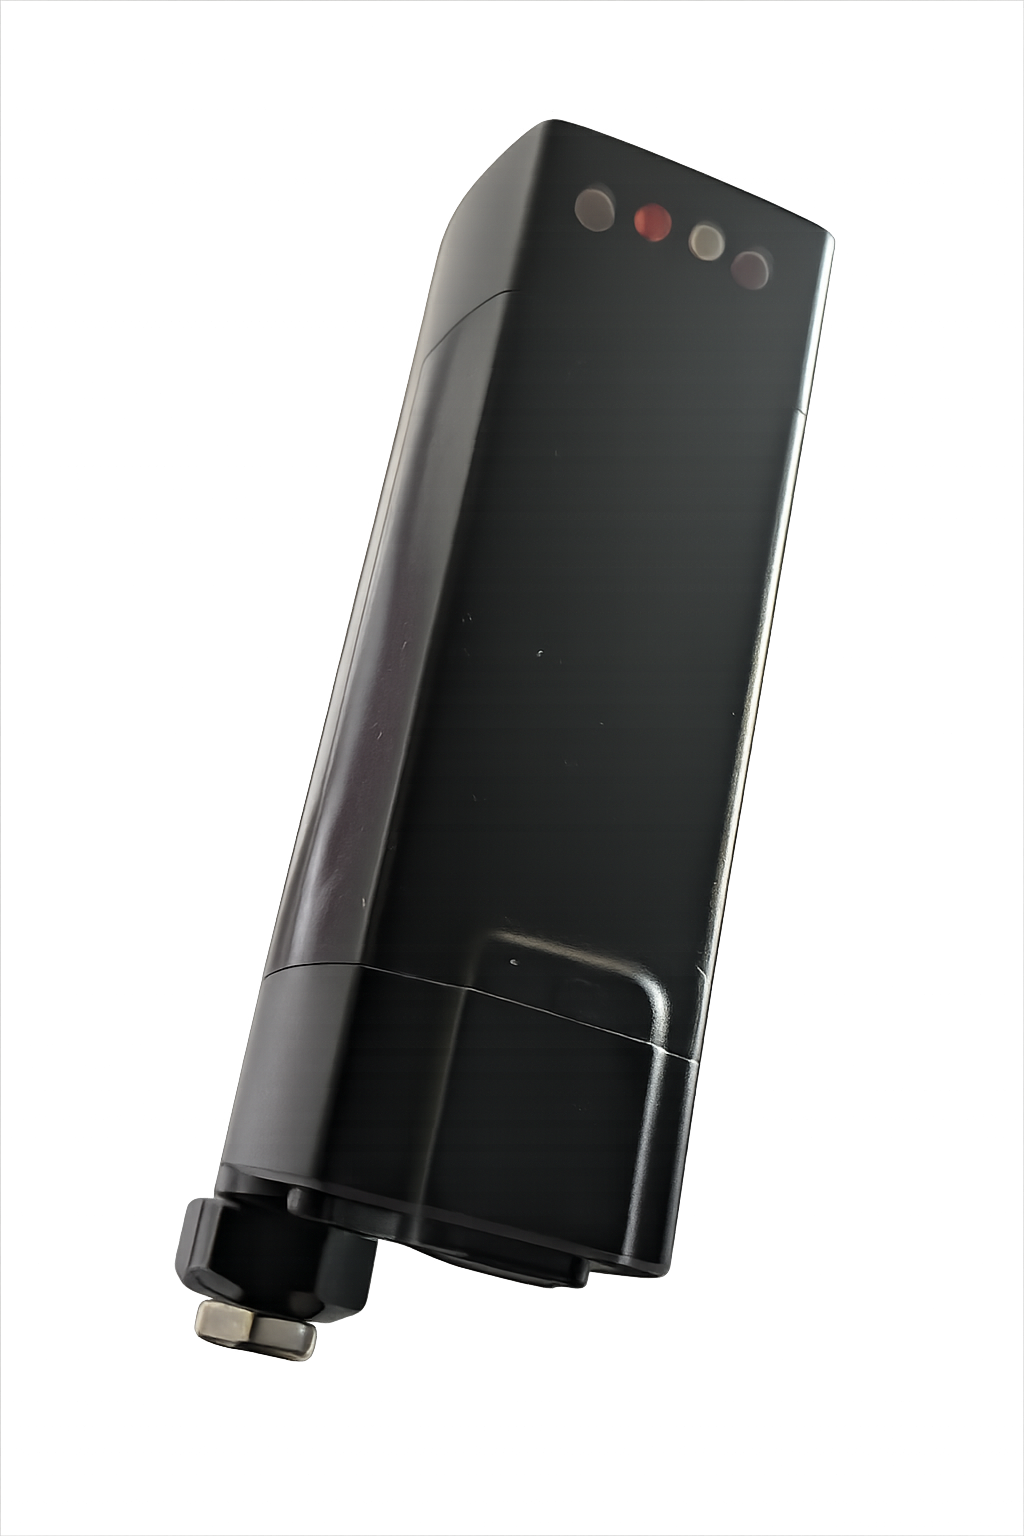
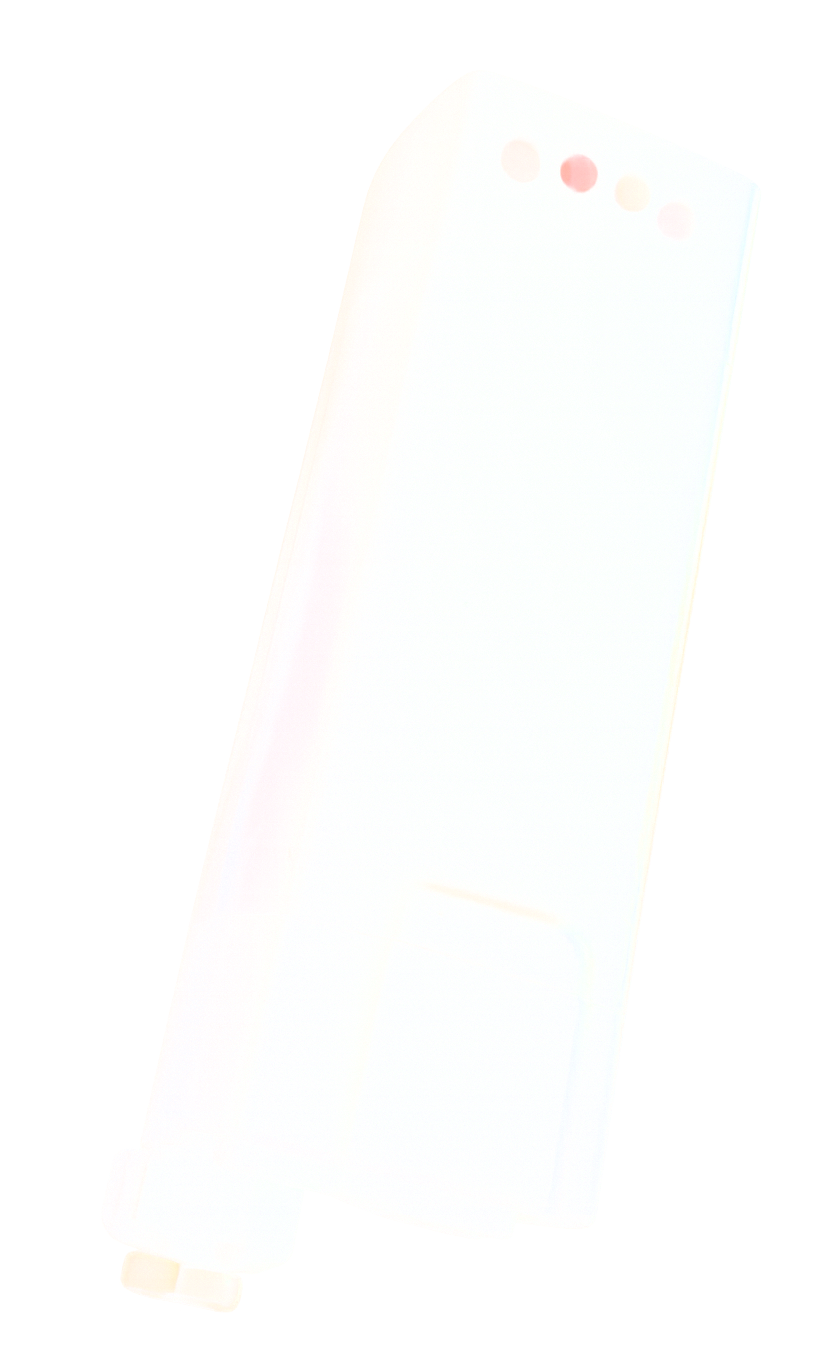
Re-aim hub reset leader at updated hub photo

diff --git a/open-elin-web/src/web/demo/hub-mock-gui.ts b/open-elin-web/src/web/demo/hub-mock-gui.ts
@@ -7,7 +7,7 @@ import { sharedStyles } from "../styles.ts";
 const hubImageUrl = new URL("../images/hub.png", import.meta.url).href;
 
 // Photo-space target for the reset leader line (% of image-wrap).
-const RESET_TARGET = { x: 70, y: 18 } as const;
+const RESET_TARGET = { x: 76.5, y: 17 } as const;
 
 export class HubMockGui extends SignalWatcher(LitElement) {
   static styles = [